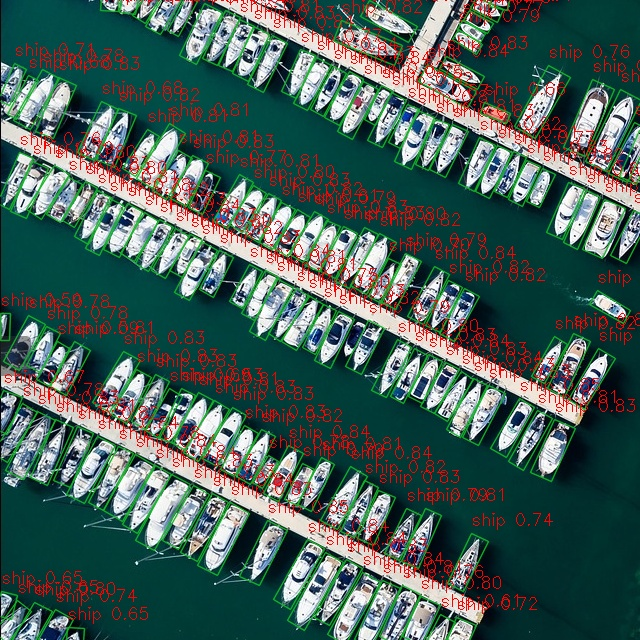
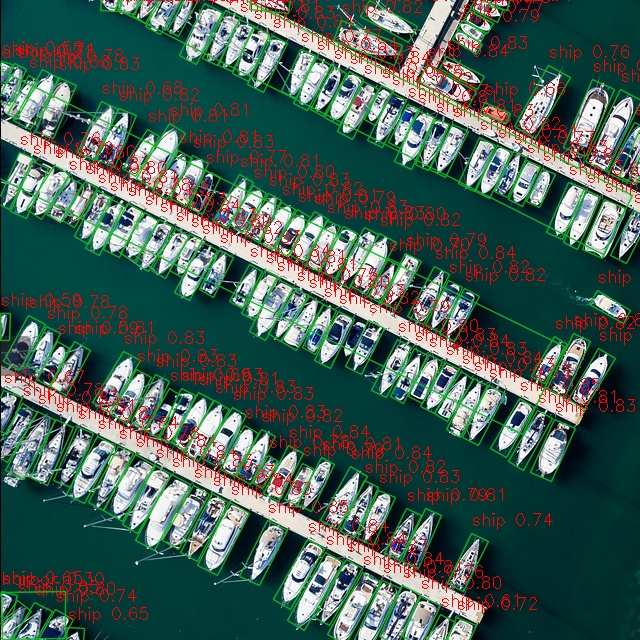
update ort infer

diff --git a/examples/mobilesam/python/ort_mobilesam.py b/examples/mobilesam/python/ort_mobilesam.py
@@ -217,9 +217,11 @@ class MobileSamOrtPredictor:
     def infer(self, image_bgr: np.ndarray, point_coords: np.ndarray, point_labels: np.ndarray, mask_input_path=None):
         encoder_input, input_shape = self._prepare_encoder_input(image_bgr)
 
-        t0 = time.perf_counter()
-        image_embeddings = self.encoder_sess.run(None, {self.encoder_input_name: encoder_input})[0]
-        encoder_ms = (time.perf_counter() - t0) * 1000.0
+        for _ in range(6):
+            if _ == 1:
+                t0 = time.perf_counter()
+            image_embeddings = self.encoder_sess.run(None, {self.encoder_input_name: encoder_input})[0]
+        encoder_ms = (time.perf_counter() - t0) * 1000.0 / 5
 
         coords = coords_preprocess(point_coords[None, :, :], image_bgr.shape[:2], self.input_size).astype(np.float32)
         labels = point_labels[None, :].astype(np.float32)
@@ -258,9 +260,11 @@ class MobileSamOrtPredictor:
                 if idx < len(ordered_inputs)
             }
 
-        t1 = time.perf_counter()
-        decoder_outputs = self.decoder_sess.run(None, decoder_feed)
-        decoder_ms = (time.perf_counter() - t1) * 1000.0
+        for _ in range(6):
+            if _ == 1:
+                t1 = time.perf_counter()
+            decoder_outputs = self.decoder_sess.run(None, decoder_feed)
+        decoder_ms = (time.perf_counter() - t1) * 1000.0 / 5
 
         output_map = {name: out for name, out in zip(self.decoder_output_names, decoder_outputs)}
         if "iou_predictions" in output_map:

diff --git a/examples/yolov5_seg/python/ort_yolov5_seg_multi.py b/examples/yolov5_seg/python/ort_yolov5_seg_multi.py
@@ -401,10 +401,11 @@ class YoloV5OrtDetector:
         input_tensor = image_rgb.transpose(2, 0, 1).astype(np.float32)[None, ...] / 255.0
 
         outputs = self.session.run(None, {self.input_name: input_tensor})
-        t0 = time.perf_counter()
-        for i in range(10):
+        for i in range(6):
+            if i == 1:
+                t0 = time.perf_counter()
             outputs = self.session.run(None, {self.input_name: input_tensor})
-        elapsed_ms = (time.perf_counter() - t0) * 1000.0 / 10.0
+        elapsed_ms = (time.perf_counter() - t0) * 1000.0 / 5
 
         boxes, classes, scores, masks = post_process(
             outputs,

diff --git a/examples/yolov8_seg/python/ort_yolov8_seg_multi.py b/examples/yolov8_seg/python/ort_yolov8_seg_multi.py
@@ -424,9 +424,12 @@ class YoloV8OrtDetector:
 
         input_tensor = image_rgb.transpose(2, 0, 1).astype(np.float32)[None, ...] / 255.0
 
-        t0 = time.perf_counter()
         outputs = self.session.run(None, {self.input_name: input_tensor})
-        elapsed_ms = (time.perf_counter() - t0) * 1000.0
+        for i in range(6):
+            if i == 1:
+                t0 = time.perf_counter()
+            outputs = self.session.run(None, {self.input_name: input_tensor})
+        elapsed_ms = (time.perf_counter() - t0) * 1000.0 / 5
 
         boxes, classes, scores, mask_coeffs, proto = post_process(
             outputs,

diff --git a/examples/yolov8_pose/python/ort_yolov8_pose_multi.py b/examples/yolov8_pose/python/ort_yolov8_pose_multi.py
@@ -362,9 +362,12 @@ class YoloV8OrtDetector:
 
         input_tensor = image_rgb.transpose(2, 0, 1).astype(np.float32)[None, ...] / 255.0
 
-        t0 = time.perf_counter()
         outputs = self.session.run(None, {self.input_name: input_tensor})
-        elapsed_ms = (time.perf_counter() - t0) * 1000.0
+        for i in range(6):
+            if i == 1:
+                t0 = time.perf_counter()
+            outputs = self.session.run(None, {self.input_name: input_tensor})
+        elapsed_ms = (time.perf_counter() - t0) * 1000.0 / 5
 
         boxes, classes, scores, keypoints = post_process(
             outputs,

diff --git a/examples/yolov7/python/ort_yolov7_multi.py b/examples/yolov7/python/ort_yolov7_multi.py
@@ -267,9 +267,12 @@ class YoloV7OrtDetector:
 
         input_tensor = image_rgb.transpose(2, 0, 1).astype(np.float32)[None, ...] / 255.0
 
-        t0 = time.perf_counter()
         outputs = self.session.run(None, {self.input_name: input_tensor})
-        elapsed_ms = (time.perf_counter() - t0) * 1000.0
+        for i in range(6):
+            if i == 1:
+                t0 = time.perf_counter()
+            outputs = self.session.run(None, {self.input_name: input_tensor})
+        elapsed_ms = (time.perf_counter() - t0) * 1000.0 / 5
 
         boxes, classes, scores = post_process_yolov7(
             outputs,

diff --git a/examples/yolov8_obb/python/ort_yolov8_obb_multi.py b/examples/yolov8_obb/python/ort_yolov8_obb_multi.py
@@ -335,9 +335,12 @@ class YoloV8OrtDetector:
 
         input_tensor = image_rgb.transpose(2, 0, 1).astype(np.float32)[None, ...] / 255.0
 
-        t0 = time.perf_counter()
         outputs = self.session.run(None, {self.input_name: input_tensor})
-        elapsed_ms = (time.perf_counter() - t0) * 1000.0
+        for i in range(6):
+            if i == 1:
+                t0 = time.perf_counter()
+            outputs = self.session.run(None, {self.input_name: input_tensor})
+        elapsed_ms = (time.perf_counter() - t0) * 1000.0 / 5
 
         rboxes, classes, scores = post_process(
             outputs,

diff --git a/examples/yolo11/python/ort_yolo11_multi.py b/examples/yolo11/python/ort_yolo11_multi.py
@@ -270,9 +270,12 @@ class Yolo11OrtDetector:
 
         input_tensor = image_rgb.transpose(2, 0, 1).astype(np.float32)[None, ...] / 255.0
 
-        t0 = time.perf_counter()
         outputs = self.session.run(None, {self.input_name: input_tensor})
-        elapsed_ms = (time.perf_counter() - t0) * 1000.0
+        for i in range(6):
+            if i == 1:
+                t0 = time.perf_counter()
+            outputs = self.session.run(None, {self.input_name: input_tensor})
+        elapsed_ms = (time.perf_counter() - t0) * 1000.0 / 5
 
         boxes, classes, scores = post_process(
             outputs,

diff --git a/examples/yolov6/python/ort_yolov6_multi.py b/examples/yolov6/python/ort_yolov6_multi.py
@@ -237,9 +237,12 @@ class YoloV6OrtDetector:
 
         input_tensor = image_rgb.transpose(2, 0, 1).astype(np.float32)[None, ...] / 255.0
 
-        t0 = time.perf_counter()
         outputs = self.session.run(None, {self.input_name: input_tensor})
-        elapsed_ms = (time.perf_counter() - t0) * 1000.0
+        for i in range(6):
+            if i == 1:
+                t0 = time.perf_counter()
+            outputs = self.session.run(None, {self.input_name: input_tensor})
+        elapsed_ms = (time.perf_counter() - t0) * 1000.0 / 5
 
         boxes, classes, scores = post_process(
             outputs,

diff --git a/examples/yolov8/python/ort_yolov8_multi.py b/examples/yolov8/python/ort_yolov8_multi.py
@@ -268,9 +268,12 @@ class YoloV8OrtDetector:
 
         input_tensor = image_rgb.transpose(2, 0, 1).astype(np.float32)[None, ...] / 255.0
 
-        t0 = time.perf_counter()
         outputs = self.session.run(None, {self.input_name: input_tensor})
-        elapsed_ms = (time.perf_counter() - t0) * 1000.0
+        for i in range(6):
+            if i == 1:
+                t0 = time.perf_counter()
+            outputs = self.session.run(None, {self.input_name: input_tensor})
+        elapsed_ms = (time.perf_counter() - t0) * 1000.0 / 5
 
         boxes, classes, scores = post_process(
             outputs,

diff --git a/examples/yolov6/python/quantize_yolov6_ort.py b/examples/yolov6/python/quantize_yolov6_ort.py
@@ -149,7 +149,7 @@ def quantize_one_model(
         model_output=output_path,
         calibration_data_reader=data_reader,
         calibrate_method=calibrate_method,
-        quant_format=QuantFormat.QDQ,
+        quant_format=QuantFormat.QOperator,
         activation_type=activation_type,
         weight_type=weight_type,
         per_channel=per_channel,
